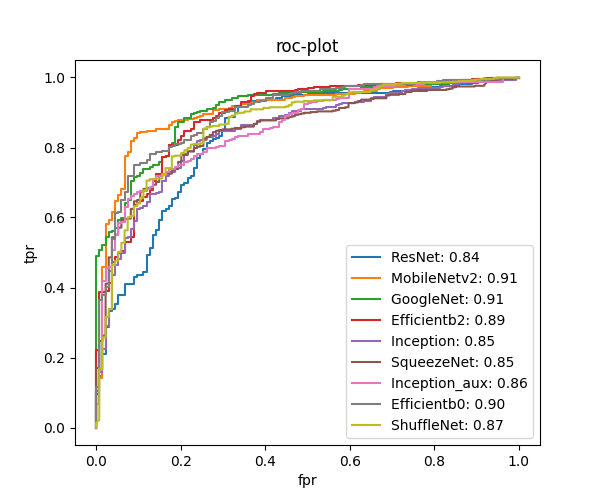
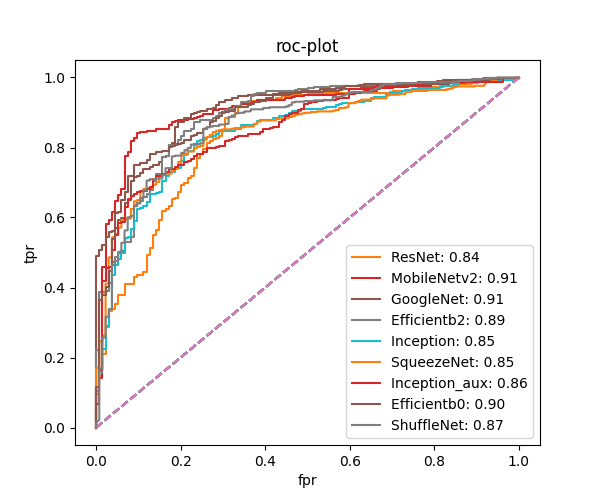
adding final roc

diff --git a/collective_roc.py b/collective_roc.py
@@ -13,6 +13,7 @@ for idx, file_name in enumerate(pkl_files):
     with open(os.path.join(DIR,pkl_files[idx]),'rb') as f:
         data = pkl.load(f)
         fpr,tpr,aucc = data[1]
+    plt.plot([0,1],[0,1],linestyle='dashed')
     if 'google' in file_name:
         plt.plot(fpr,tpr,label=f'GoogleNet: {aucc:.2f}')
     elif 'aux' in file_name and 'inception' in file_name:
